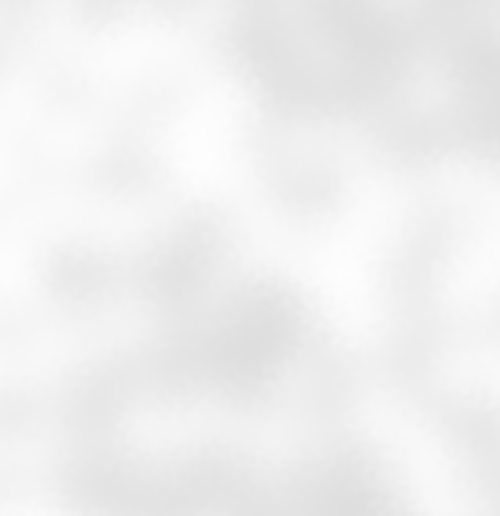
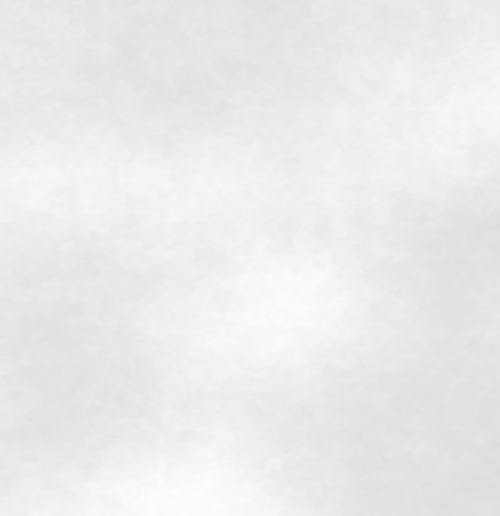
update ratios, textures, and instructions

diff --git a/public/pvr-study-2234/assets/scroll-test.html b/public/pvr-study-2234/assets/scroll-test.html
@@ -38,10 +38,14 @@
 
     #scrollArea {
       width: 500px;
-      height: 1000px;
+      height: 4000px;
       position: relative;
       box-sizing: border-box;
-      background: #ffffff;
+      background-color: #ffffff;
+      background-image: url("background-scroll-test.png");
+      background-repeat: no-repeat;
+      background-position: left top;
+      background-size: 500px 4000px;
     }
 
     .number {
@@ -79,7 +83,7 @@
       <div class="number">582</div>
       <div class="hint-bottom">
         <span class="arrow">&uarr;</span>
-        scroll up to find the number (no scrolling back down)
+        scroll up to find the number (scrolling back down is not possible)
       </div>
     </div>
   </div>

diff --git a/public/pvr-study-2234/assets/bar-chart-tutorial.html b/public/pvr-study-2234/assets/bar-chart-tutorial.html
@@ -292,7 +292,10 @@
       };
 
       const postAnswer = (answerValue) => {
-        feedback.textContent = `The true ratio is ${correctAnswer}.`;
+        const differsFromCorrect = answerValue !== correctAnswer;
+        feedback.textContent = differsFromCorrect
+          ? `The true ratio is ${correctAnswer}. Your response is different but it's OK.`
+          : `The true ratio is ${correctAnswer}.`;
         finalizeActiveScrollBout();
         Revisit.postAnswers({
           [taskID]: answerValue,

diff --git a/public/pvr-study-2234/textureGenerator.js b/public/pvr-study-2234/textureGenerator.js
@@ -3,12 +3,12 @@
 
 const TEXTURE_DEFAULTS = {
   seed: 7,
-  baseScaleX: 0.0001,
-  baseScaleY: 0.0001,
+  baseScaleX: 0.0008,
+  baseScaleY: 0.0012,
   octaves: 8,
   lacunarity: 2.0,
   persistence: 1,
-  warpStrength: 8,
+  warpStrength: 6,
   warpScaleX: 0.1,
   warpScaleY: 0.1,
   contrast: 0.72,

diff --git a/public/pvr-study-2234/assets/instruction.md b/public/pvr-study-2234/assets/instruction.md
@@ -7,7 +7,7 @@ Please read the instructions carefully.
     <figure style="margin: 12px 0 4px 0;">
       <img src="./pvr-study-1/assets/instruct-chart-example.png" alt="Example bar chart with a 2 to 1 ratio." style="width: 500px; max-width: 100%; height: auto;" />
   </li>
-  <li style="margin-bottom: 10px;">In some cases, a bar may be too tall to fit on the screen, and you will need to scroll to the top to view the full chart. <strong>You can only scroll upward toward the top of the chart; scrolling backward (back down) is not allowed.</strong></li>
+  <li style="margin-bottom: 10px;">In some cases, a bar may be too tall to fit on the screen, and you will need to scroll to the top to view the full chart. <strong>You can only scroll upward toward the top of the chart; scrolling backward (back down) is not possible.</strong></li>
  <li style="margin-bottom: 10px;"><span style="color:red"><strong>Just give quick, intuitive responses. Do not count or calculate. Otherwise, the task will take too long.</span></strong></li>
   <li style="margin-bottom: 10px;"><span style="color:red"><strong>We are not looking for precise answers. Payment is not based on accuracy.</strong></span> However, random input is not eligible for payment. </li>
   <li style="margin-bottom: 10px;">Please don't use any method that skips large parts of the chart in a single step (e.g., Page Up or End).</li>

diff --git a/public/pvr-study-2234/assets/help.md b/public/pvr-study-2234/assets/help.md
@@ -5,7 +5,7 @@
     <figure style="margin: 12px 0 4px 0;">
       <img src="./pvr-study-1/assets/instruct-chart-example.png" alt="Example bar chart with a 2 to 1 ratio." style="width: 500px; max-width: 100%; height: auto;" />
   </li>
-  <li style="margin-bottom: 10px;">In some cases, a bar may be too tall to fit on the screen, and you will need to scroll to the top to view the full chart. <strong>You can only scroll upward toward the top of the chart; scrolling backward (back down) is not allowed.</strong></li>
+  <li style="margin-bottom: 10px;">In some cases, a bar may be too tall to fit on the screen, and you will need to scroll to the top to view the full chart. <strong>You can only scroll upward toward the top of the chart; scrolling backward (back down) is not possible.</strong></li>
  <li style="margin-bottom: 10px;"><span style="color:red"><strong>Just give quick, intuitive responses. Do not count or calculate. Otherwise, the task will take too long.</span></strong></li>
   <li style="margin-bottom: 10px;"><span style="color:red">We are not looking for precise answers. Payment is not based on accuracy.</span> However, random input is not eligible for payment. </li>
   <li style="margin-bottom: 10px;"><span style="color:red">Please don't use any method that skips large parts of the chart in a single step (e.g., Page Up or End).</li>

diff --git a/public/pvr-study-2234/assets/transition-scroll.md b/public/pvr-study-2234/assets/transition-scroll.md
@@ -1,1 +1,1 @@
-Next, you will need to scroll upward to fully view the taller bar in the chart. **You can only scroll upward toward the top; scrolling backward (back down) is not allowed.**
+Next, you will need to scroll upward to fully view the taller bar in the chart. **You can only scroll upward toward the top; scrolling backward (back down) is not possible.**
